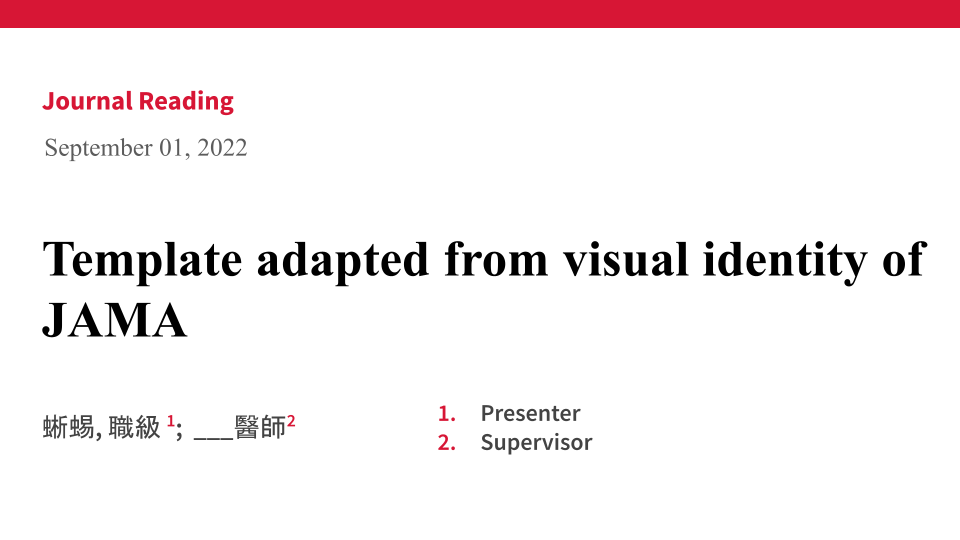
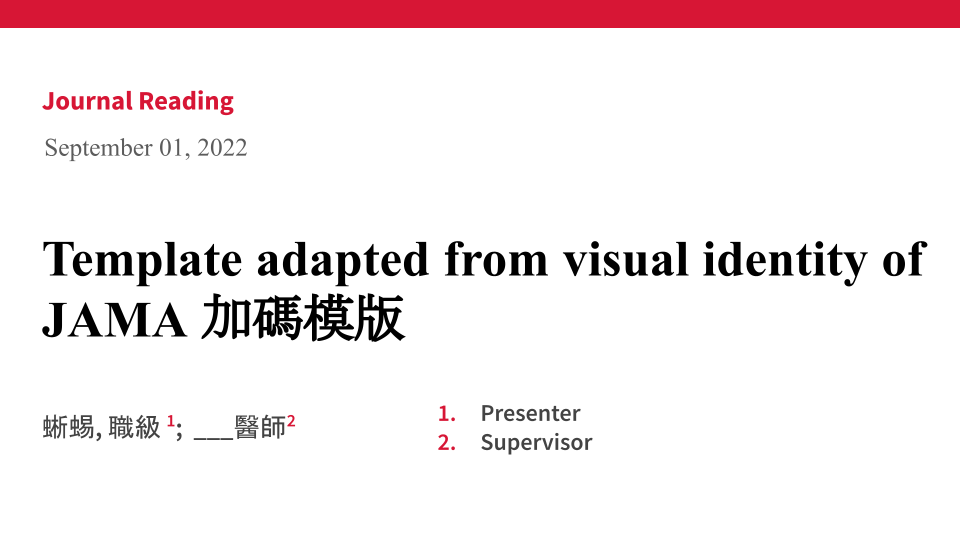
new post: JAMA

Changed region(s): [[0.2188, 0.5333, 0.4375, 0.6519]]

diff --git a/content/posts/2022-09-01-jama-temp.md b/content/posts/2022-09-01-jama-temp.md
@@ -1,0 +1,17 @@
+---
+template: post
+title: 醫學簡報必備JAMA風格模版
+slug: JAMA Template
+socialImage: /media/JAMA.png
+draft: true
+date: 2022-09-01
+description: 還不快存一份
+category: tutorial
+---
+
+![image_22-09-01_22_09_23](https://i.imgur.com/Tu3tC8D.png)
+
+## TL;DR
+* [下載連結](https://docs.google.com/presentation/d/1d7NQodzOx5mWpeRQt-loT-obv6HxTEkppiHkdIrf79c/edit?usp=sharing)
+* `檔案`→`建立副本`→`整份簡報`
+* Have a nice day

diff --git a/content/posts/index.md b/content/posts/index.md
@@ -9,3 +9,4 @@
 2022-08-28-md-bib-make.md
 2022-08-29-anki-obsidian.md
 2022-08-31-r-bookdown.md
+2022-09-01-jama-temp.md
